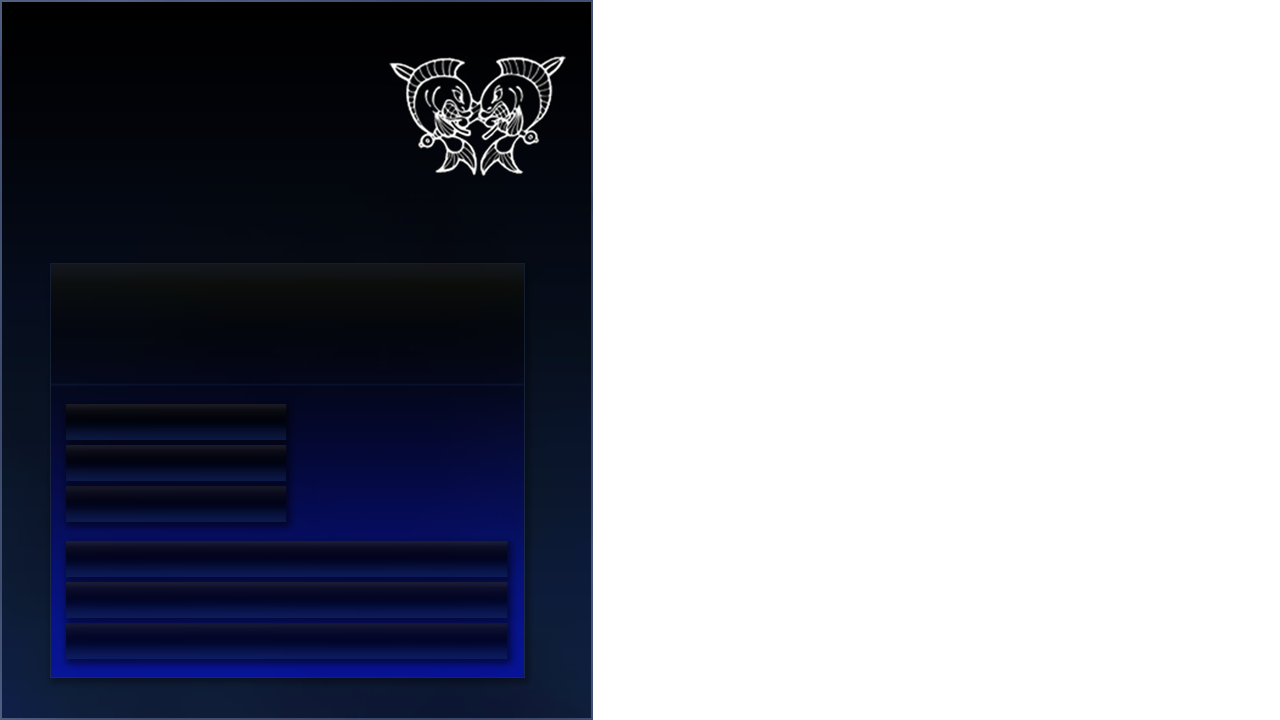
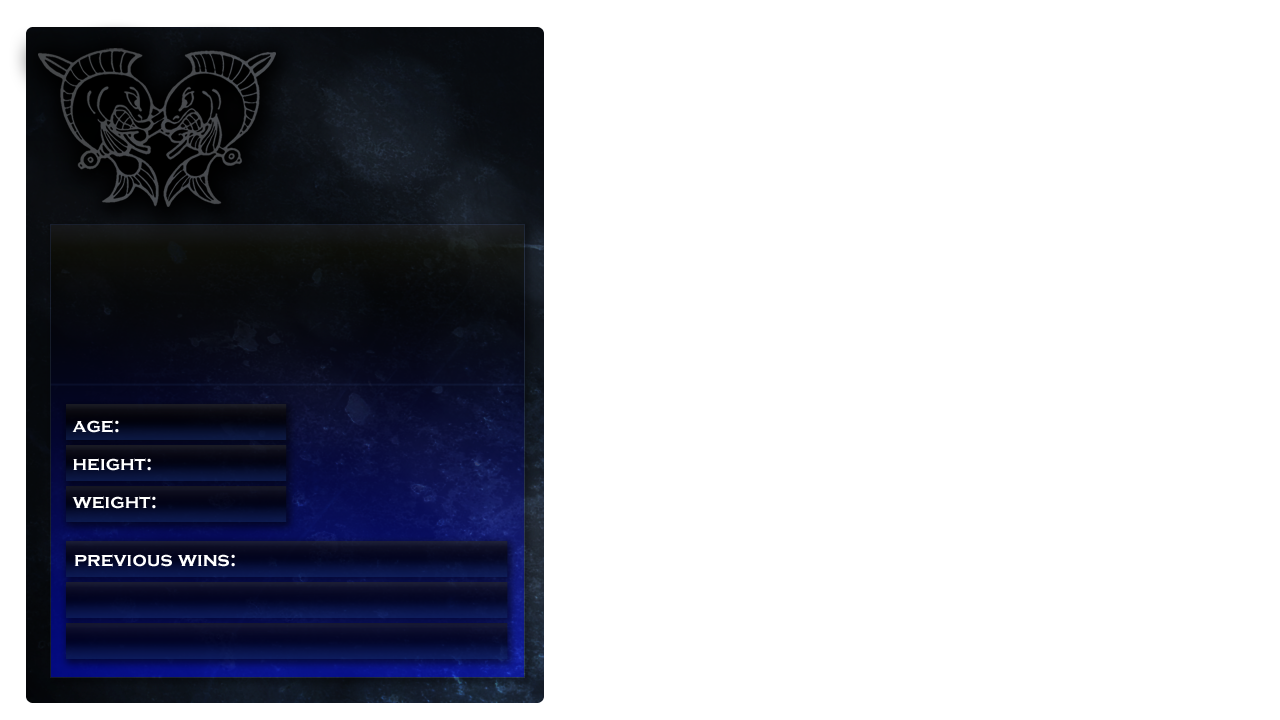
update of 720p images, everything is positioned except for the previous wins

diff --git a/play/htm-viewer-play/public/templates/participant/bio.html b/play/htm-viewer-play/public/templates/participant/bio.html
@@ -4,18 +4,15 @@
 	<div class="name">{{ participant.name }}</div>
 	<div class="club">{{ participant.club }}</div>
 	<div class="detail age" ng-show="participant.age">
-		<div class="lbl">Age</div>
-		<div class="value">{{ participant.age }}</div>
+		{{ participant.age }}
 	</div>
 	<div class="detail height" ng-show="participant.height">
-		<div class="lbl">Height</div>
-		<div class="value">{{ participant.height }}&nbsp;cm</div>
+		{{ participant.height }}&nbsp;cm
 	</div>
 	<div class="detail weight" ng-show="participant.weight">
-		<div class="lbl">Weight</div>
-		<div class="value">{{ participant.weight }}&nbsp;kg</div>
+		{{ participant.weight }}&nbsp;kg
 	</div>
 	<div class="detail" ng-show="participant.previousWins">
-		<div class="previousWins">{{ participant.previousWins }}</div>
+		{{ participant.previousWins }}
 	</div>
 </div>

diff --git a/play/htm-viewer-play/app/assets/stylesheets/main1280x720.less b/play/htm-viewer-play/app/assets/stylesheets/main1280x720.less
@@ -3,14 +3,14 @@
 @height: 720px;
 
 .participant-bio.left {
-	background-image: url(/assets/images/participant/bio/1280x720/left.png);
+	background-image: url(/assets/images/participant/bio/1280x720/left.png?thresholding=yes);
 	
 	.tournament, .round {
-		left: 70px;
+		left: 240px;
 	}
 
 	.name, .club {
-		left: 70px;
+		right: 1004px;
 	}
 	
 	.detail {
@@ -18,17 +18,17 @@
 	}
 }
 .participant-bio.right {
-	background-image: url(/assets/images/participant/bio/1280x720/right.png);
+	background-image: url(/assets/images/participant/bio/1280x720/right.png?thresholding=yes);
 
 	.tournament, .round {
 		left: 900px;
 	}
 
 	.name, .club {
-		left: 750px;
+		left: 777px;
 	}
 	
 	.detail {
-		left: 768px;
+		right: 296px;
 	}
 }

diff --git a/play/htm-viewer-play/app/assets/stylesheets/main.less b/play/htm-viewer-play/app/assets/stylesheets/main.less
@@ -371,26 +371,19 @@ body {
 		}
 		
 		.name {
-			top: 270px;
+			top: 240px;
 			font-size: 24pt;
 		}
 		
 		.club {
-			top: 305px;
+			top: 275px;
 			font-size: 18pt;
 			color: #ddd;
 		}
 		
 		.detail {
 			font-size: 16pt;
-			
-			.lbl {
-				color: #ddd;
-			}
-			
-			.value {
-				left: 100px;
-			}
+			text-align: right;
 		}
 		
 		.age {
